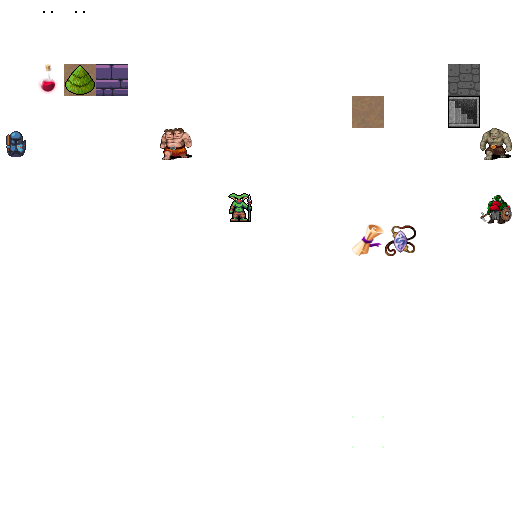
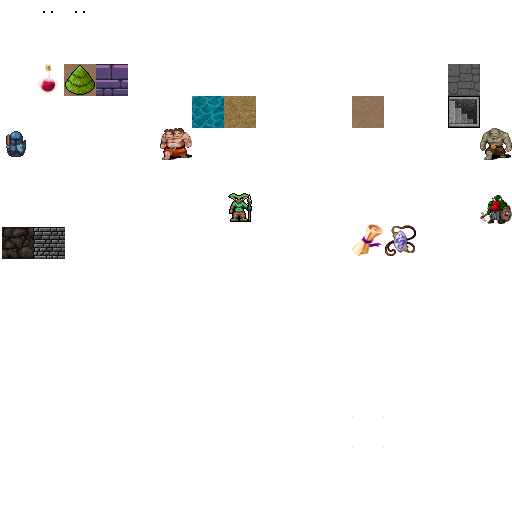
adding themes

Changed region(s): [[0.0, 0.4375, 0.125, 0.5312], [0.375, 0.1875, 0.5, 0.25]]

diff --git a/src/map_builder/themes.rs b/src/map_builder/themes.rs
@@ -2,8 +2,21 @@ use crate::prelude::*;
 
 pub struct DungeonTheme {}
 pub struct ForestTheme {}
+pub struct BeachTheme {}
 
 impl DungeonTheme {
+    pub fn new() -> Box<dyn MapTheme> {
+        Box::new(Self{})
+    }
+}
+
+impl BeachTheme {
+    pub fn new() -> Box<dyn MapTheme> {
+        Box::new(Self{})
+    }
+}
+
+impl ForestTheme {
     pub fn new() -> Box<dyn MapTheme> {
         Box::new(Self{})
     }
@@ -12,16 +25,20 @@ impl DungeonTheme {
 impl MapTheme for DungeonTheme {
     fn tile_to_render(&self, tile_type: TileType) -> u16 {
         match tile_type {
-            TileType::Wall => to_cp437('#'),
-            TileType::Floor => to_cp437('.'),
+            TileType::Wall => to_cp437('q'),
+            TileType::Floor => to_cp437('p'),
             TileType::Test => to_cp437('T'),
         }
     }
 }
 
-impl ForestTheme {
-    pub fn new() -> Box<dyn MapTheme> {
-        Box::new(Self{})
+impl MapTheme for BeachTheme {
+    fn tile_to_render(&self, tile_type: TileType) -> u16 {
+        match tile_type {
+            TileType::Wall => to_cp437('6'),
+            TileType::Floor => to_cp437('7'),
+            TileType::Test => to_cp437('T'),
+        }
     }
 }
 

diff --git a/src/map_builder/mod.rs b/src/map_builder/mod.rs
@@ -14,6 +14,7 @@ use rooms::RoomsArchitect;
 use drunkard::DrunkardArchitect;
 use themes::DungeonTheme;
 use themes::ForestTheme;
+use themes::BeachTheme;
 
 // legion resources have to be thread safe (thus constrained by send + sync)
 pub trait MapTheme: Send + Sync {
@@ -63,8 +64,9 @@ impl MapBuilder {
         apply_prefab(&mut builder, rng, &FORTRESS);
         apply_prefab(&mut builder, rng, &SPIRALL);
 
-        builder.theme = match rng.range(0, 2) {
+        builder.theme = match rng.range(0, 3) {
             0 => DungeonTheme::new(),
+            1 => BeachTheme::new(),
             _ => ForestTheme::new(),
         };
 
